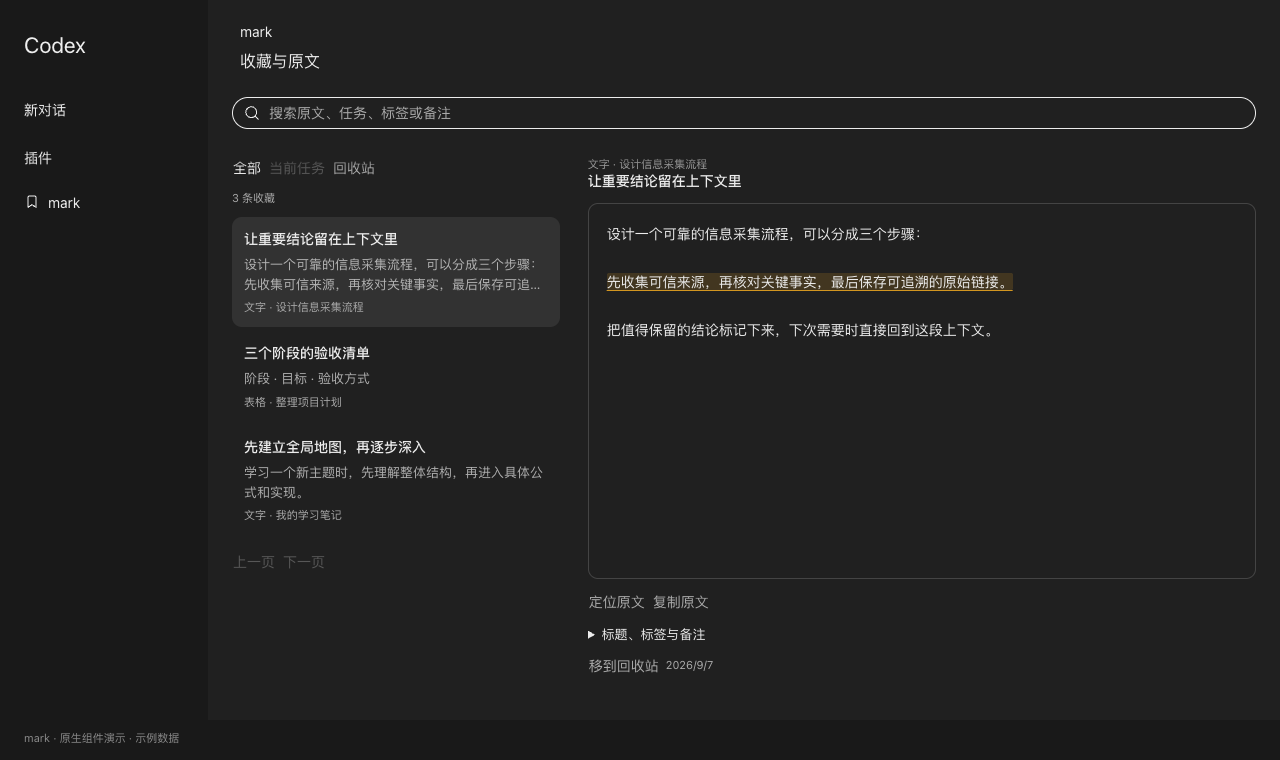
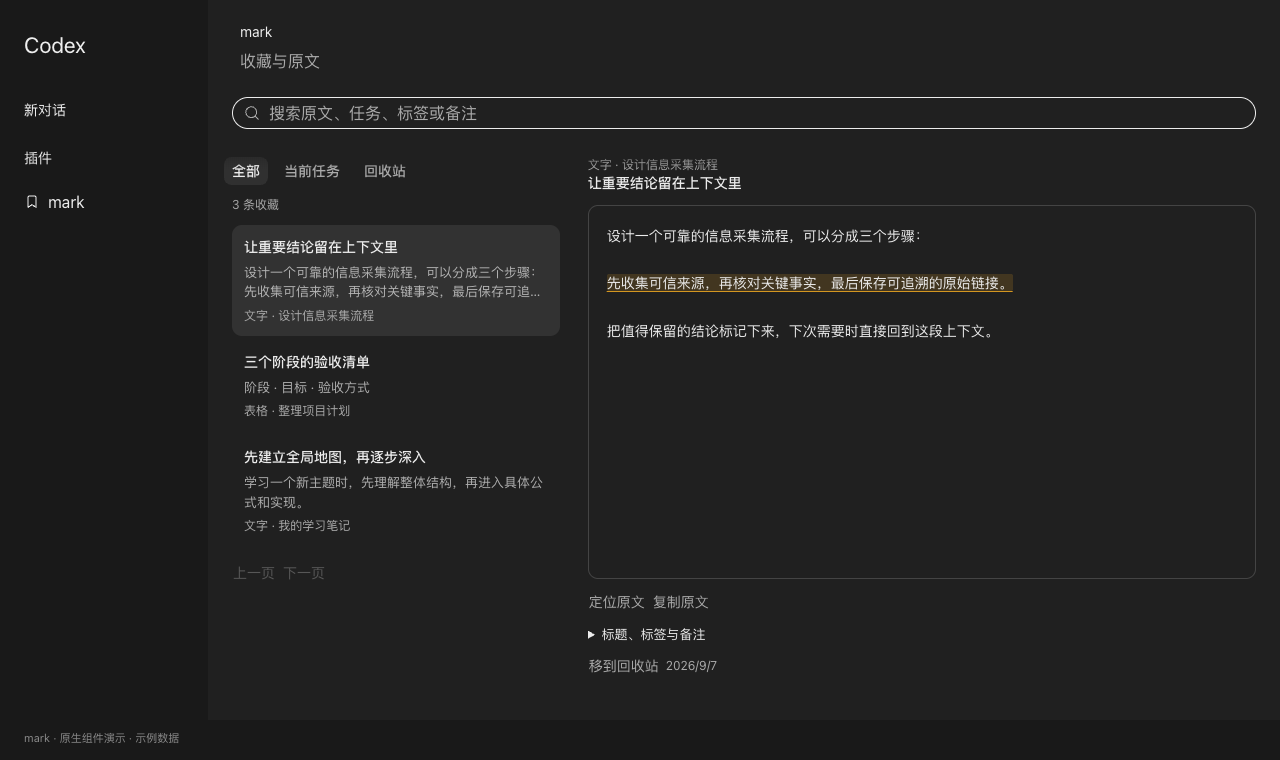
Reuse native page tabs and simplify mark hover previews

diff --git a/integration/patch_client.py b/integration/patch_client.py
@@ -224,7 +224,8 @@ def prepare(app, output, plugin):
     modified = replace_sidebar(modified)
     initial = replace_page(initial)
     # Native components are initialized by their original lazy module initializers.
-    initial += '\nexport function __markNativeComponents(){qN();pH();gq();oCo();return {React:c(),jsx:G(),createPortal:pe().createPortal,Button:KN,PageLayout:$So,Dialog:cH,Title:lH,Description:uH,Input:P6i,useNavigate:$w,useLocation:Zw};}\n'
+    initial = 'import {n as __initMarkTabs,t as __MarkTabs} from "./tabs-2fa243fa7caf.js";\n' + initial
+    initial += '\nexport function __markNativeComponents(){qN();pH();gq();oCo();__initMarkTabs();return {React:c(),jsx:G(),createPortal:pe().createPortal,Button:KN,Tabs:__MarkTabs,PageLayout:$So,Dialog:cH,Title:lH,Description:uH,Input:P6i,useNavigate:$w,useLocation:Zw};}\n'
     rail = archive.read(RAIL).decode()
     expected = 'export{Qt as AppThreadUserMessageNavigationRail};'
     if rail.count(expected) != 1:

diff --git a/docs/USAGE.md b/docs/USAGE.md
@@ -14,7 +14,7 @@
 
 ## 跨任务寻找
 
-左侧 **mark** 打开内置收藏页面。搜索原文、来源任务、标签或备注；空格分隔的关键词需同时匹配，这是字面搜索。点击一条收藏可查看保存时的上下文和高亮，点击 **定位原文** 返回来源任务。
+左侧 **mark** 打开内置收藏页面。使用“全部 / 当前任务 / 回收站”切换范围；“当前任务”仅在有来源任务时显示。标签切换复用 Codex 原生组件，支持方向键、Home/End 和焦点跟随。搜索原文、来源任务、标签或备注；空格分隔的关键词需同时匹配，这是字面搜索。点击一条收藏可查看保存时的上下文和高亮，点击 **定位原文** 返回来源任务。
 
 原文未变化时定位选区；匹配失效时退到对应消息，或提示查看已保存快照。保存快照不等于最新原文。页面中的“标题、标签与备注”可展开编辑，删除的收藏可以在回收站恢复。
 

diff --git a/docs/RELEASE.md b/docs/RELEASE.md
@@ -3,7 +3,7 @@
 首个公开的 macOS Apple Silicon 开发者预览包。
 
 - 原生划词 mark、文字下划线、图片/图表/表格收藏。
-- 左侧 mark 页面；右侧连续波动导航，移除重复的收藏库图标。
+- 左侧 mark 页面，复用原生 Tabs 的选中、悬停与键盘切换；右侧连续波动导航，移除重复的收藏库图标。
 - 精确版本检查、本机生成副本、本地签名、升级检查和上一版回退。
 - 在 Codex 内安装时可使用 `launch --switch --detached`，8 秒后切换并保存结果。
 - Git clone 与发布 ZIP 共用校验流程；仅忽略 Git 元数据及 Python 缓存等非包内容。

diff --git a/README.md b/README.md
@@ -10,7 +10,7 @@
 
 ## 效果
 
-收藏库位于 Codex 主内容区，复用原生页面布局、搜索、按钮和侧边栏组件。文字保留上下文与高亮，表格保留完整行列。
+收藏库位于 Codex 主内容区，复用原生页面布局、搜索、Tabs 标签切换、按钮和侧边栏组件。文字保留上下文与高亮，表格保留完整行列。
 
 ![mark 内置收藏库：搜索、上下文与原文定位](docs/images/library.png)
 
